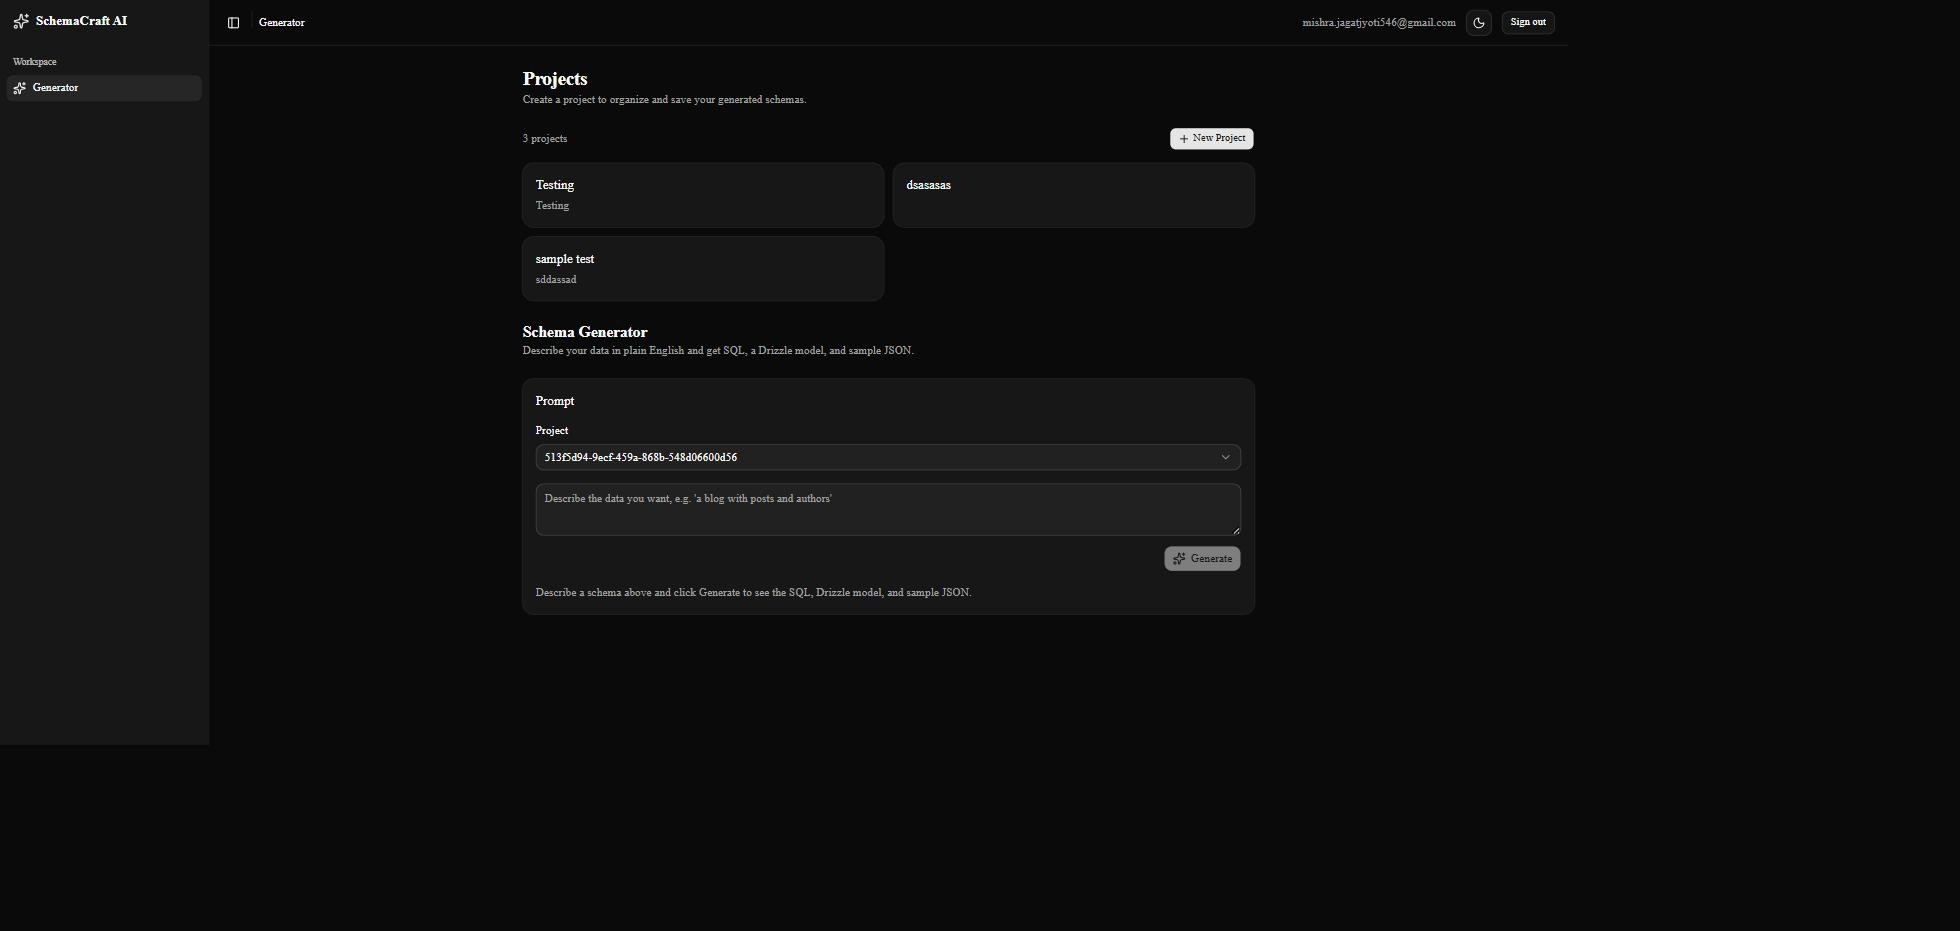
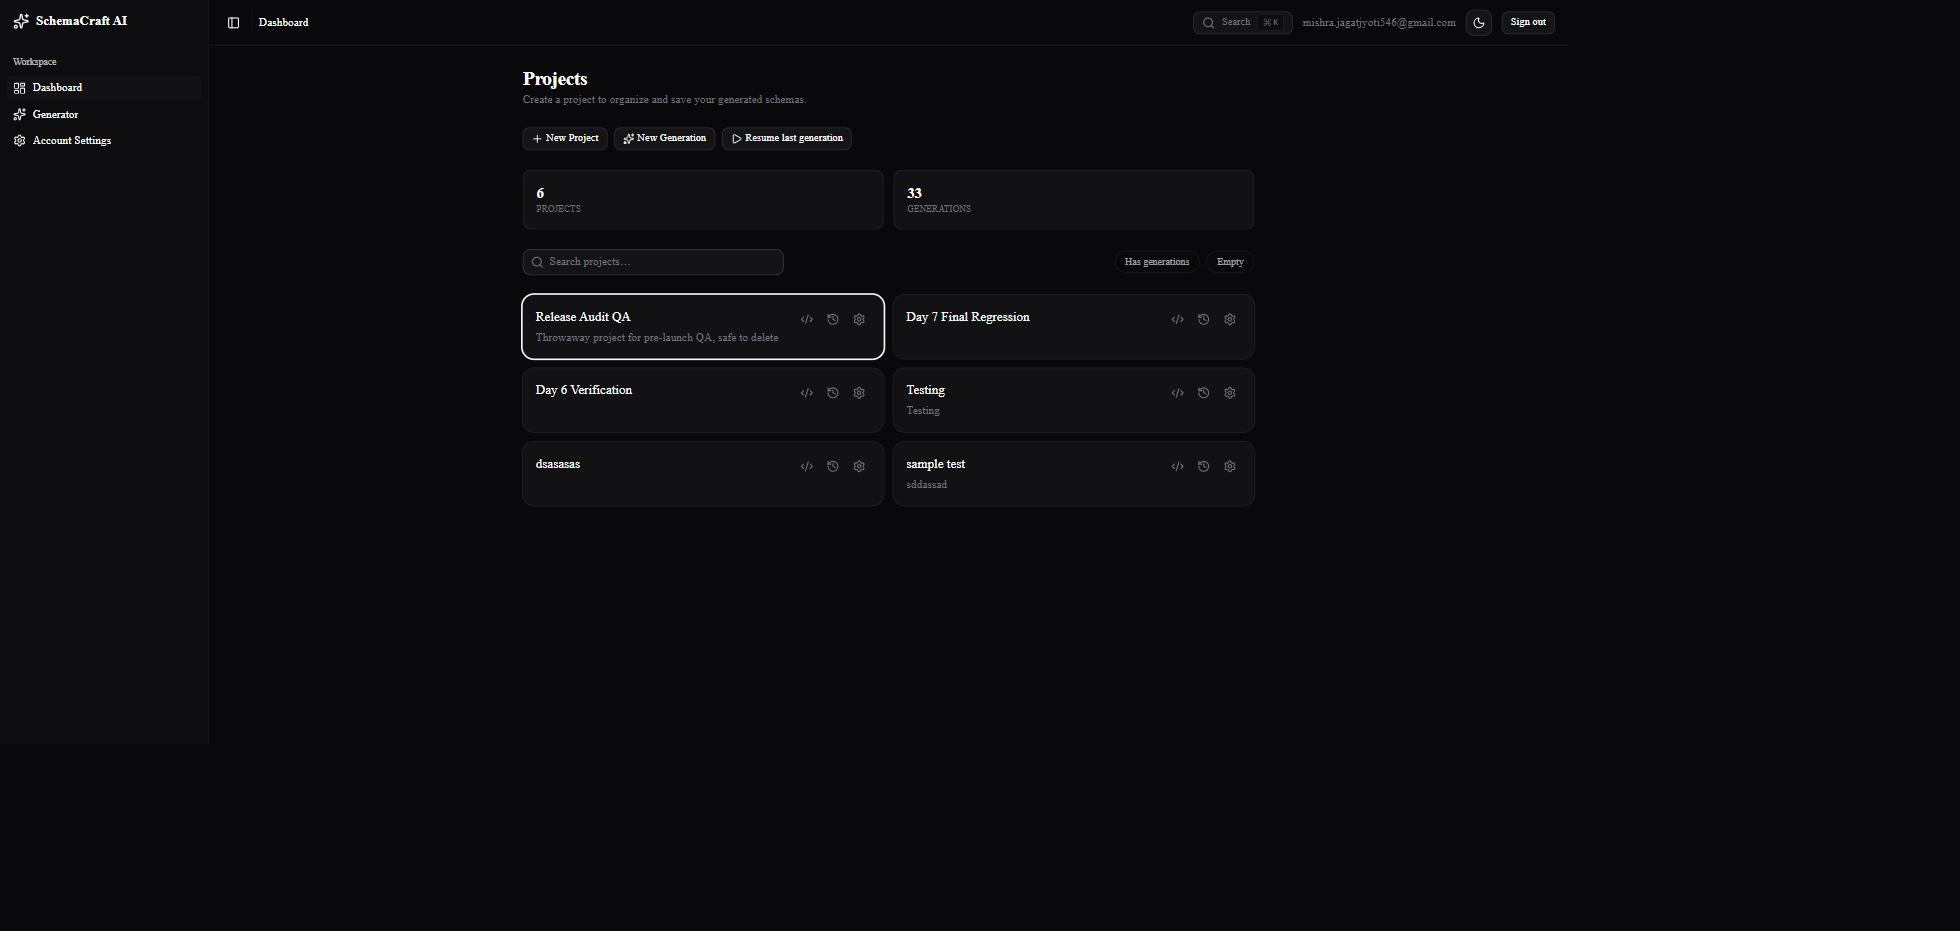
docs: refresh README screenshots and correct stale test/CI claims
Screenshots showed the pre-redesign UI (bare Generator page, no
dashboard hero/stats/search); replaced all 7 with current captures
and added landing page, generator, history, and account settings.

README also claimed 149 tests/9 files and an auto-triggered CI
workflow at .github/workflows/ci.yml -- actual state is 368
tests/51 files and project_ci.yml is workflow_dispatch only.

diff --git a/README.md b/README.md
@@ -131,9 +131,9 @@ npm run typecheck     # tsc --noEmit
 npm test
 ```
 
-The project has **149 automated tests** across 9 test files, covering the AST validator, the semantic analyzer, all 5 compilers (SQL, Drizzle, JSON, Markdown, Mermaid), and the generation-service integration seam. Every compiler has both a hand-verified expected-output test and a determinism test (compile twice, assert byte-identical output) — no snapshot testing, since the whole point of these compilers is deterministic, human-reviewable output, and a snapshot would rubber-stamp any accidental change instead of catching it.
+The project has **368 automated tests** across 51 test files, covering the AST validator, the semantic analyzer, all 5 compilers (SQL, Drizzle, JSON, Markdown, Mermaid), the generation-service integration seam, and the UI layer (components, hooks, and accessibility). Every compiler has both a hand-verified expected-output test and a determinism test (compile twice, assert byte-identical output) — no snapshot testing, since the whole point of these compilers is deterministic, human-reviewable output, and a snapshot would rubber-stamp any accidental change instead of catching it.
 
-**GitHub Actions CI** (`.github/workflows/ci.yml`) runs on every push and pull request to `main`: install → lint → typecheck → test → build. All four steps must pass before a change is considered mergeable.
+**GitHub Actions** (`.github/workflows/project_ci.yml`) provides a manually-triggered (`workflow_dispatch`) build pipeline: install → lint → typecheck → test → build.
 
 ## Production Deployment
 
@@ -143,11 +143,17 @@ The application is deployed on **Vercel** at [schemacraft-ai.vercel.app](https:/
 
 ## Screenshots
 
+**Landing page**
+![Landing page](./docs/screenshots/landing-page.jpg)
+
 **Dashboard — dark mode**
 ![Dashboard, dark mode](./docs/screenshots/dashboard-dark-mode.jpg)
 
 **Dashboard — light mode**
 ![Dashboard, light mode](./docs/screenshots/dashboard-light-mode.jpg)
+
+**Schema Generator**
+![Schema Generator](./docs/screenshots/generator.jpg)
 
 **Generated SQL**
 ![Generated SQL output](./docs/screenshots/generated-sql-output.jpg)
@@ -163,6 +169,12 @@ The application is deployed on **Vercel** at [schemacraft-ai.vercel.app](https:/
 
 **Generated Mermaid ER diagram**
 ![Generated Mermaid ER diagram](./docs/screenshots/generated-mermaid-erd.jpg)
+
+**Generation history**
+![Generation history](./docs/screenshots/history.jpg)
+
+**Account settings**
+![Account settings](./docs/screenshots/account-settings.jpg)
 
 ---
 
